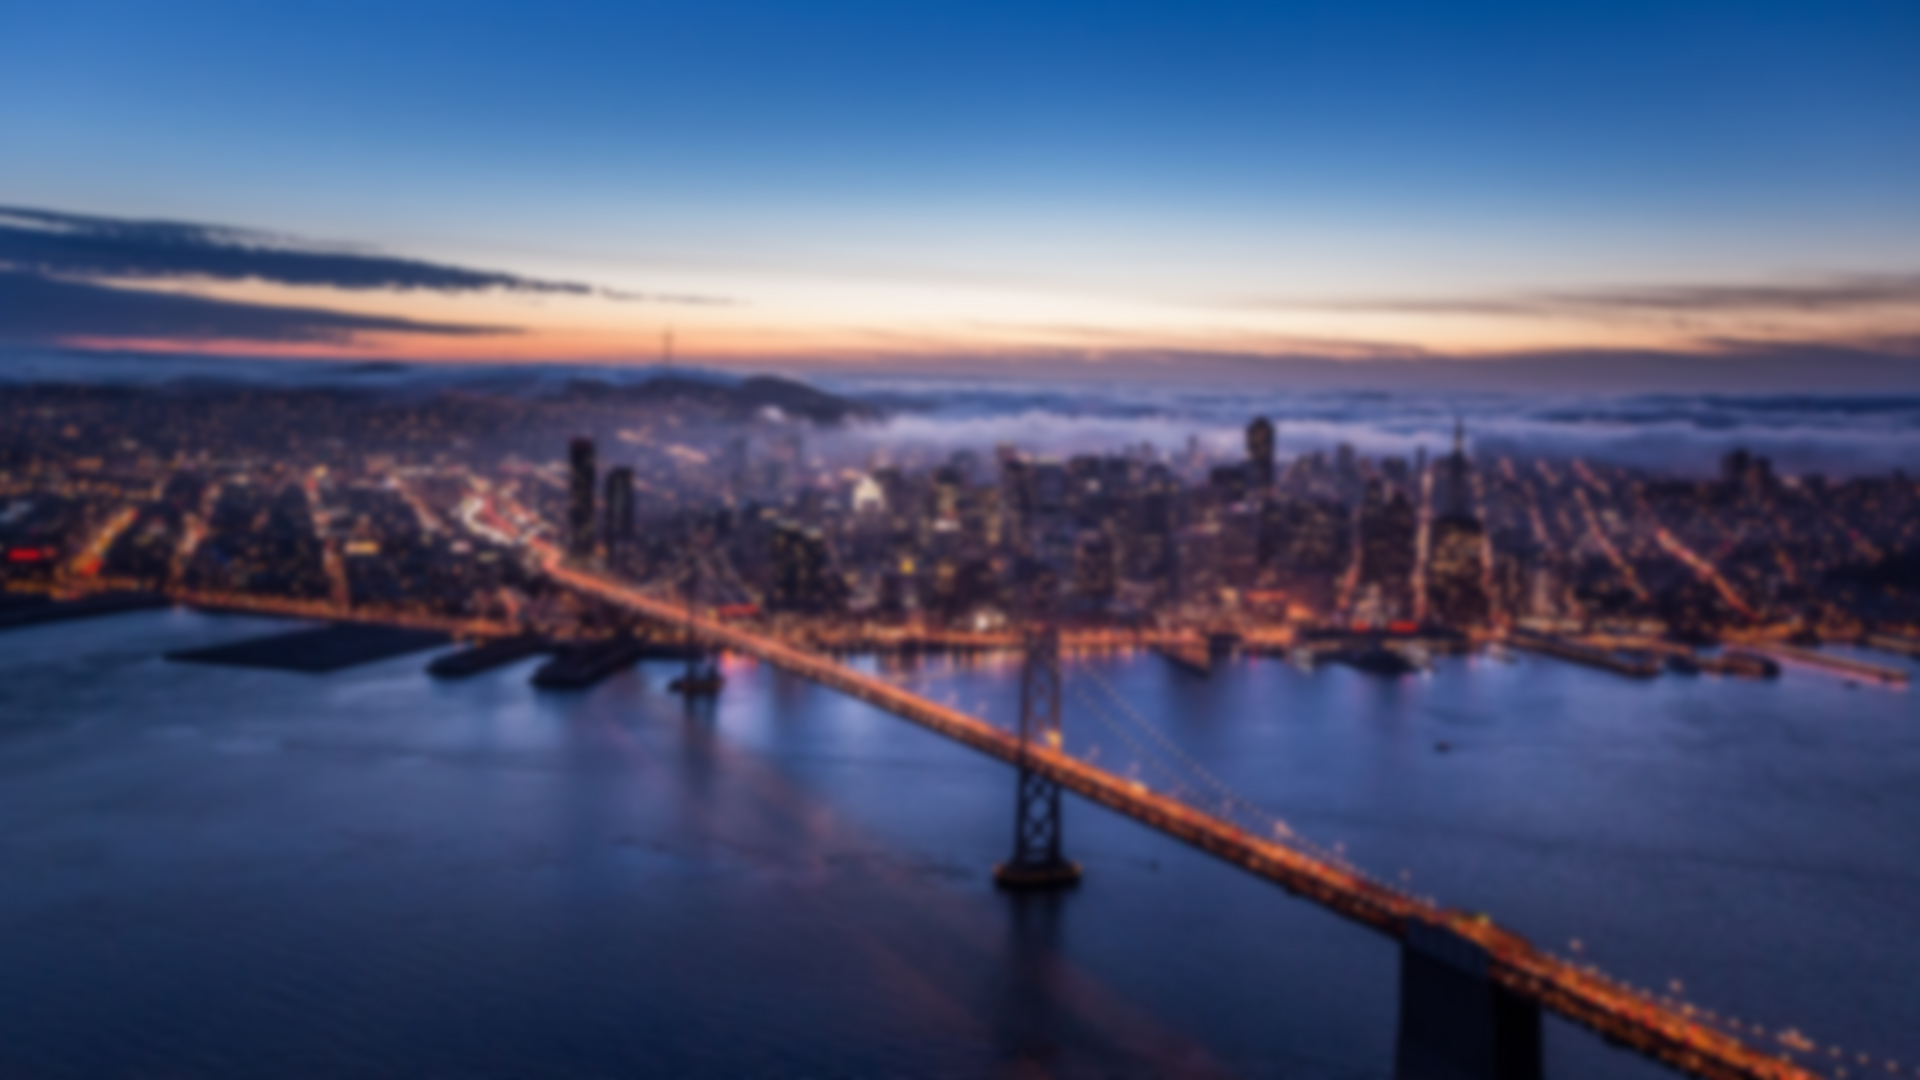
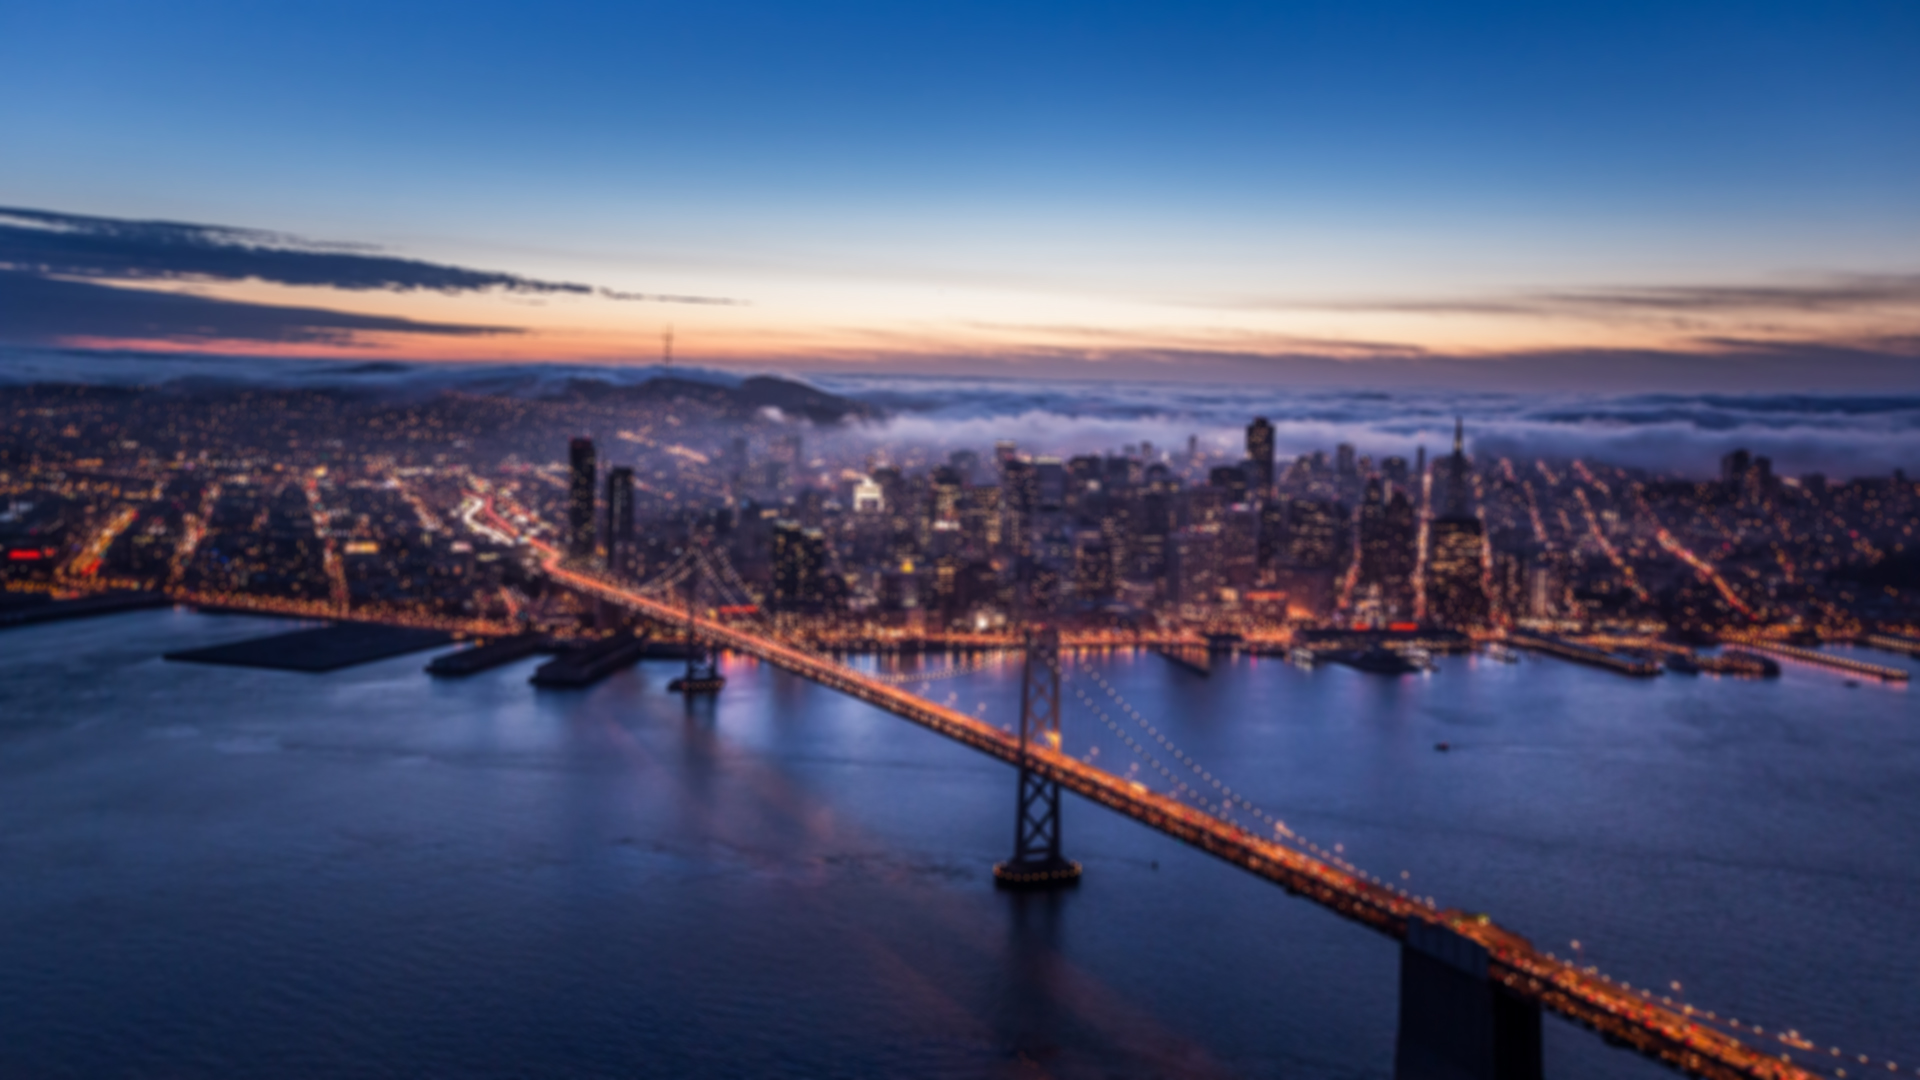
front page scaling

diff --git a/public/css/homepage.css b/public/css/homepage.css
@@ -100,11 +100,18 @@ padding-left: 0;
 }
 
 .homepage-image {
-  width: 100%;
+  object-fit: cover;
 	background-position: center;
   background-size: cover;
   position: relative;
   background-repeat: no-repeat;
+}
+
+.homepage-image img{
+  width: auto;
+  height: auto;
+  max-width: 100%;
+  max-height: 100%;
 }
 
 
@@ -270,7 +277,10 @@ footer {
   text-align: justify;
 }
 #mobile img {
-  display: none;
+  width: auto;
+  height: auto;
+  max-width: 100%;
+  max-height: 100%;
 }
 .breadcrumbs {
   background-color: rgba(51,51,51, 1) !important;
@@ -288,6 +298,12 @@ footer {
   }
   .second {
     display: none;
+  }
+  .homepage-image img{
+    width: auto;
+    height: auto;
+    max-width: 100%;
+    max-height: 100%;
   }
   .logo {
     width: 100px;

diff --git a/public/css/contact.css b/public/css/contact.css
@@ -1,5 +1,5 @@
 .picture-banner {
-    background-image: url("../assets/img/BayBridge.jpg");
+    background-image: url("../assets/img/BayBridgeblurred.jpg");
     /* background-position: 100% 80%; */
 	background-position: center;
     background-repeat: no-repeat;
@@ -7,6 +7,7 @@
 	background-size: cover;
     position: relative;
 }
+
 .img-banner {
     background-repeat: no-repeat;
     margin-left:auto;

diff --git a/public/css/styles.css b/public/css/styles.css
@@ -6,8 +6,20 @@
     margin-left: 5%;
     float: left;
     font-family: EBGaramond;
+    animation-name: fadeInOpacity;
+	animation-iteration-count: 1;
+	animation-timing-function: ease-in;
+	animation-duration: 0.75s;
 }
 
+@keyframes fadeInOpacity {
+	0% {
+		opacity: 0;
+	}
+	100% {
+		opacity: 1;
+	}
+}
 
 @media only screen and (max-width: 40em) {
     .banner-header-styles {

diff --git a/public/css/teampage.css b/public/css/teampage.css
@@ -1,10 +1,8 @@
 .picture-banner {
     padding-top: 5%;
     background-image: url("https://s3-us-west-1.amazonaws.com/berkeleyinvestmentgroupwebsite/Team_Photos_2018/cover.jpg");
-	/* background-position: 100% 80%; */
 	background-position: center;
     background-repeat: no-repeat;
-	/* background-size: 105% 170%; */
 	background-size: cover;
     position: relative;
 }

diff --git a/public/css/alumni.css b/public/css/alumni.css
@@ -17,7 +17,11 @@
     top: 10%;
     margin-left: 5%;
     float: left;
-    font-family: EBGaramond;
+	font-family: EBGaramond;
+	animation-name: fadeInOpacity;
+	animation-iteration-count: 1;
+	animation-timing-function: ease-in;
+	animation-duration: 0.75s;
 }
 
 .banner-header-alumni {
